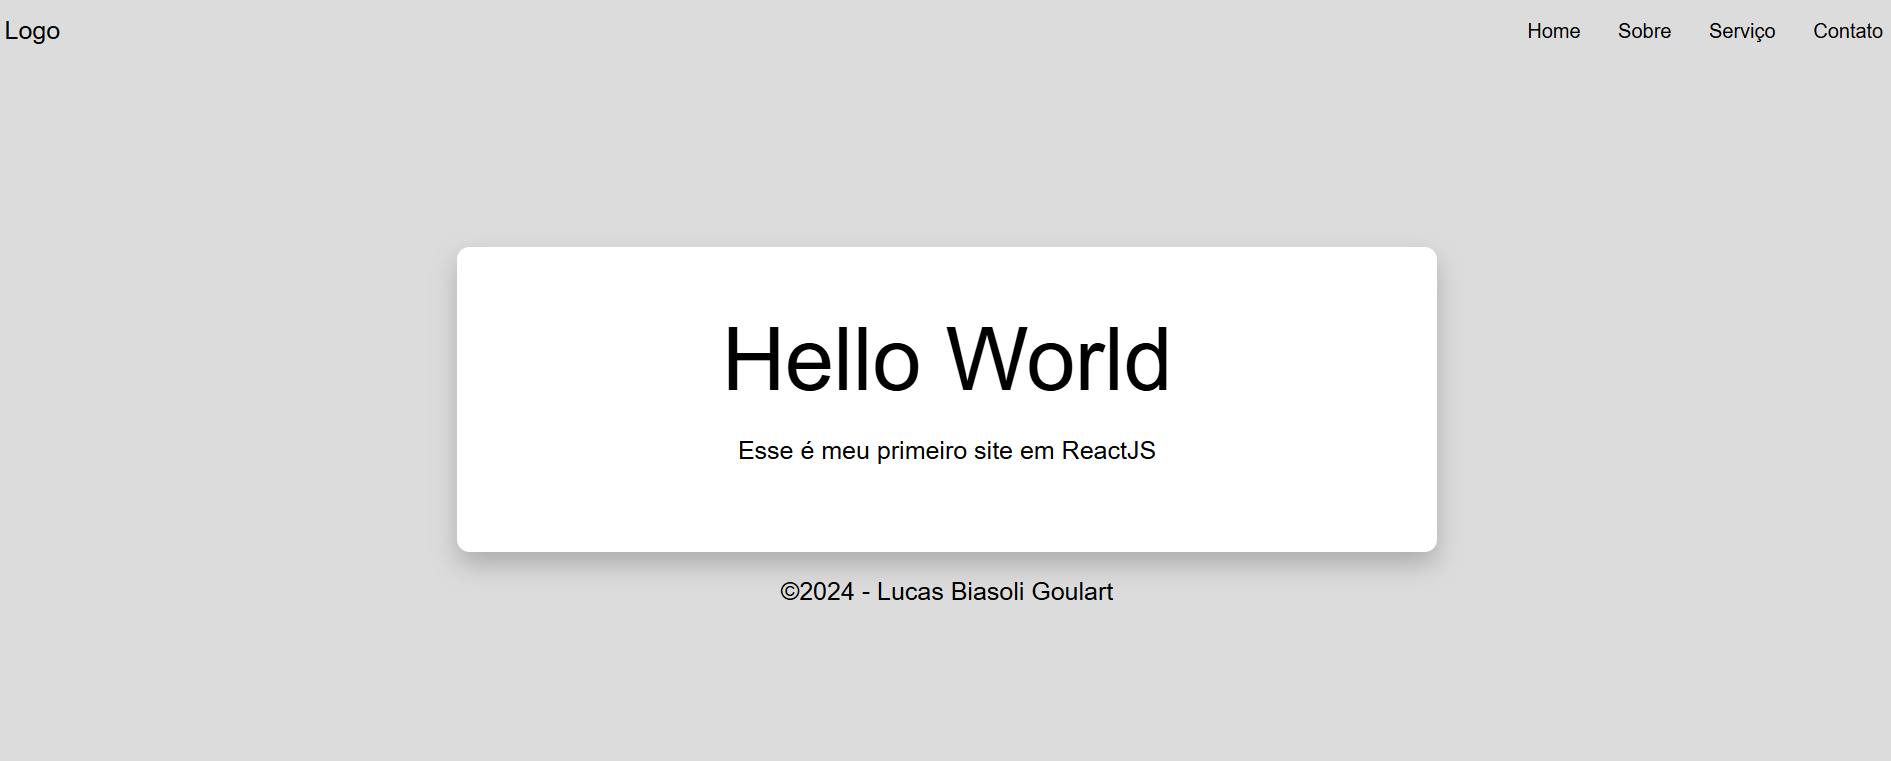
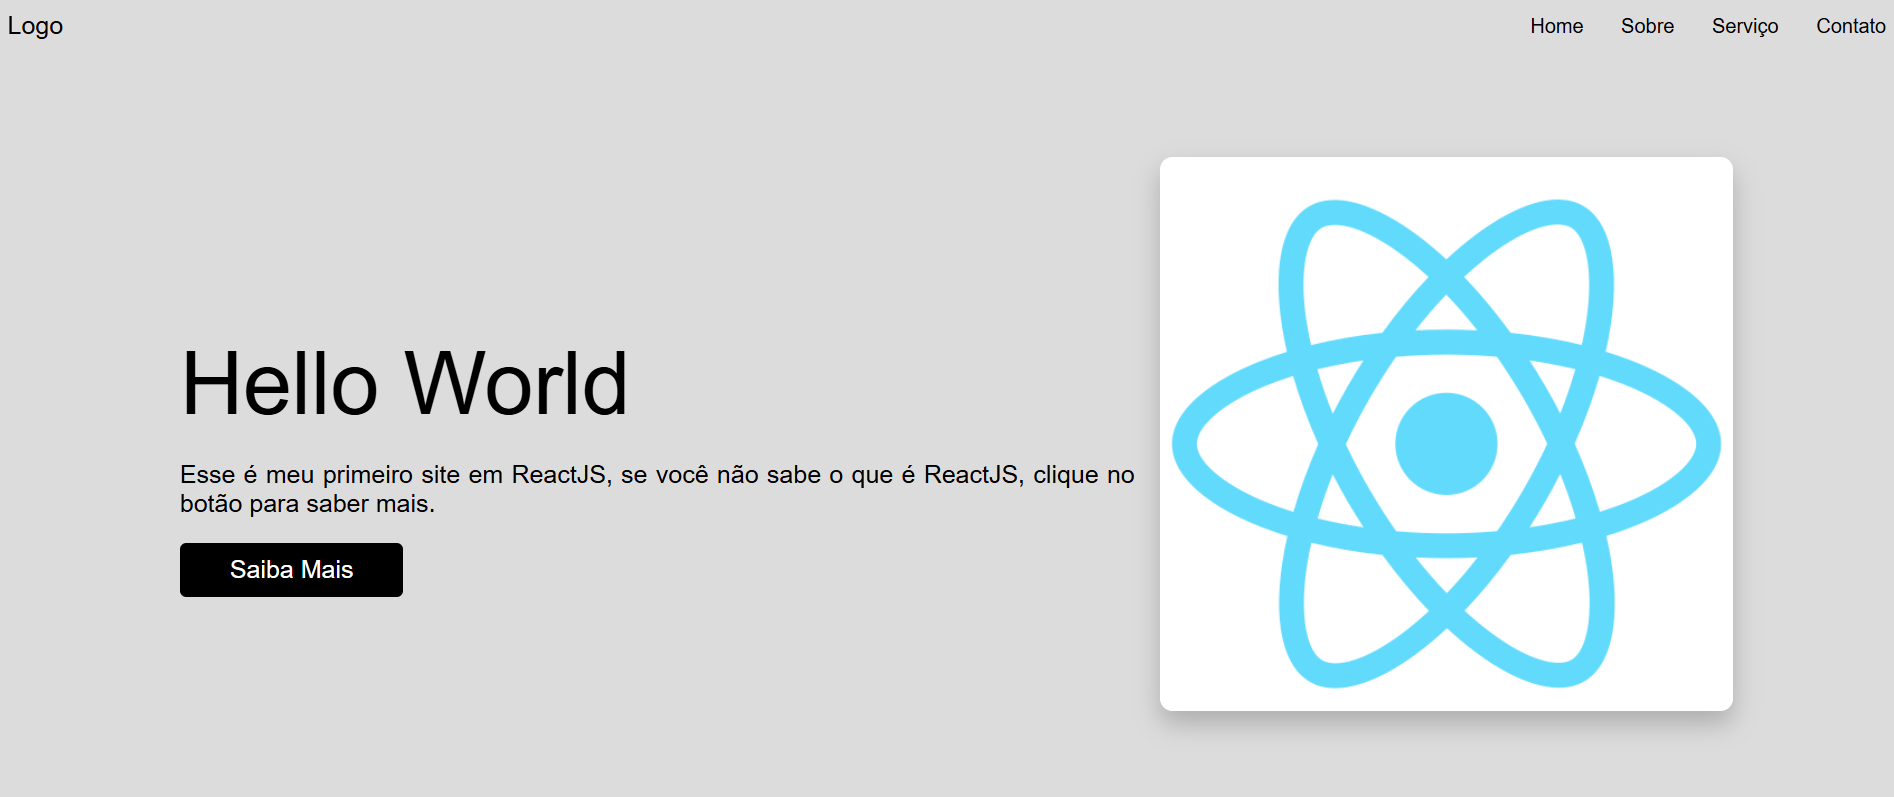
projeto_atualizado

diff --git a/my-app/src/App.css b/my-app/src/App.css
@@ -37,47 +37,55 @@
   display: flex;
   align-items: center;
   justify-content: center;
-  flex-direction: column;
+  gap: 10px;
 }
 
 .principal p{
   font-size: 20px;
 }
 
+/*----Card----*/
 .card{
   width: 50%;
-  padding: 50px 10px;
+  padding: 10px;
   border-radius: 10px;
-  background-color: white;
-  box-shadow: 0px 10px 20px 0px rgba(0, 0, 0, 0.214);
-  display: flex;
-  align-items: center;
-  justify-content: center;
-  flex-direction: column;
 }
 
 .card h1{
   font-size: 70px;
   font-weight: 400;
   margin-bottom: 0px;
-  margin-top: 0px;
+  margin-top: 50px;
 }
 
 .card p{
   font-size: 20px;
   margin-top: 20px;
+  text-align: justify;
 }
 
-@media screen and (max-width: 768px) {
-  .card{
-    width: 90%;
-  }
+.card button{
+  padding: 10px 40px;
+  border: none;
+  border-radius: 5px;
+  background-color: black;
+  font-size: 20px;
+}
 
-  .card h1{
-    font-size: 50px;
-  }
+.card a{
+  color: white;
+  text-decoration: none;
+}
 
-  .card p{
-    font-size: 17px;
-  }
+/*----Logo----*/
+.logo{
+  width: 30%;
+  height: 60vh;
+  border-radius: 10px;
+  background-color: white;
+  box-shadow: 0px 10px 20px 0px rgba(0, 0, 0, 0.214);
+}
+
+.logo img{
+  width: 100%;
 }

diff --git a/my-app/src/App.js b/my-app/src/App.js
@@ -1,4 +1,5 @@
 import './App.css';
+import logo from './logo.png';
 
 function App() {
   return (
@@ -15,9 +16,12 @@ function App() {
       <div className='principal'>
         <div className='card'>
           <h1>Hello World</h1>
-          <p>Esse é meu primeiro site em ReactJS</p>
+          <p>Esse é meu primeiro site em ReactJS, se você não sabe o que é ReactJS, clique no botão para saber mais.</p>
+          <button><a href='https://react.dev/'>Saiba Mais</a></button>
         </div>
-        <p>&copy;2024 - Lucas Biasoli Goulart</p>
+        <div className='logo'>
+          <img src={logo} alt='logo'></img>
+        </div>
       </div>
     </div>
   );
